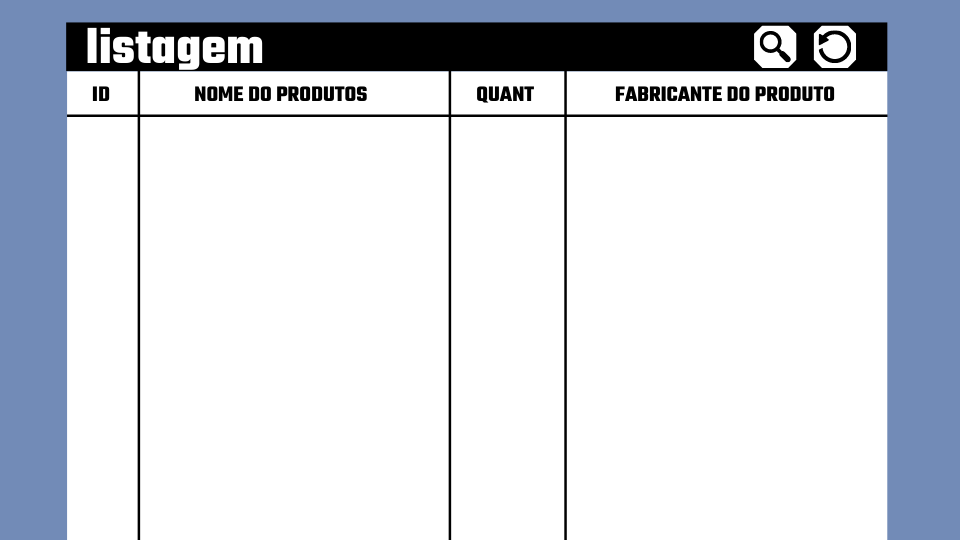
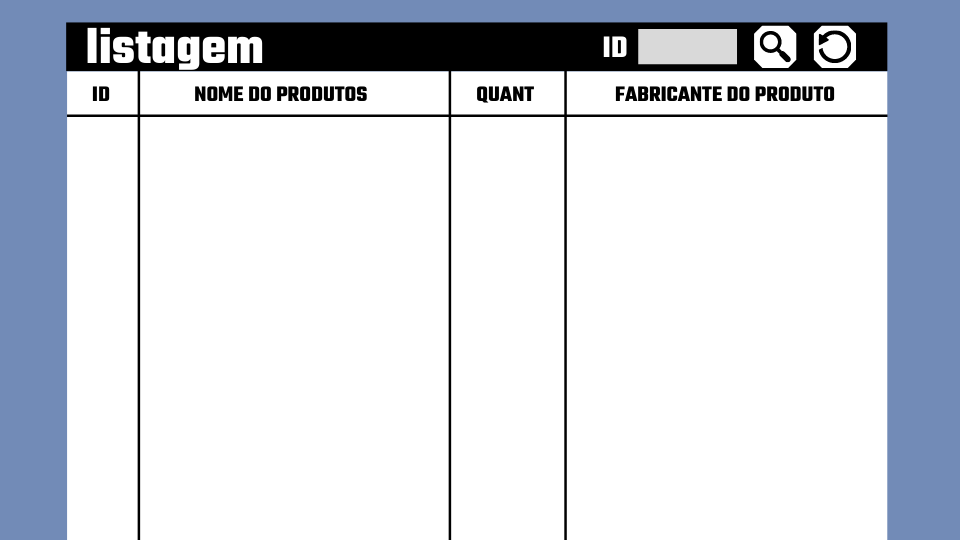
Atv's V1.16.7

Changed region(s): [[0.625, 0.0296, 0.7812, 0.1185]]

diff --git a/UC-05 - Desenvolver aplicações desktop/Gerenciador de Estoque - Full/Menu_CL.py b/UC-05 - Desenvolver aplicações desktop/Gerenciador de Estoque - Full/Menu_CL.py
@@ -24,6 +24,8 @@ class Menu:  # classe que cria todo o front end
         self.back = BackEnd()
         self.fundo = '#728BB7'
         self.branco = '#ffffff'
+        self.preto = '#000000'
+        self.cinza = '#d9d9d9'
         # ========================================================================================
         # frames
         self.frame_inicial = Frame(self.window)
@@ -34,6 +36,7 @@ class Menu:  # classe que cria todo o front end
         self.frame_cadas_prod = Frame(self.window)
         self.frame_cadas_fabri = Frame(self.window)
         self.frame_prod_listar = Frame(self.window)
+        self.frame_fabri_listar = Frame(self.window)
         self.frame_prod_alterar = Frame(self.window)
         self.frane_opt_alt = Frame(self.window)
         self.frame_dele_prod = Frame(self.window)
@@ -52,6 +55,7 @@ class Menu:  # classe que cria todo o front end
         img7 = PhotoImage(file='Imagens/Frames/Altr_Prod.png')
         img8 = PhotoImage(file='Imagens/Frames/Opt_Alterar.png')
         img9 = PhotoImage(file='Imagens/Frames/Deletar_Prod.png')
+        img10 = PhotoImage(file='Imagens/Frames/Listar_Fabri.png')
         img_menu_botao = PhotoImage(file='Imagens/botoes/menu.png')
         img_voltar_botao = PhotoImage(file='Imagens/botoes/voltar.png')
         img_botao_cadas = PhotoImage(file='Imagens/botoes/botao_cadas.PNG')
@@ -71,6 +75,7 @@ class Menu:  # classe que cria todo o front end
         img_bt_modi = PhotoImage(file='Imagens/botoes/botao_mod_prod.PNG')
         img_delete = PhotoImage(file='Imagens/botoes/botao_deletar.PNG')
         img_bt_dele = PhotoImage(file='Imagens/botoes/Deletar_bt.PNG')
+        img_bt_list_fabri = PhotoImage(file='Imagens/botoes/List_Fabri.PNG')
         # ==========================================================================================
         # INICIAL
         inicial = Label(self.frame_inicial, image=img0)
@@ -157,12 +162,16 @@ class Menu:  # classe que cria todo o front end
                                    bg=self.fundo, command=lambda: [self.frame_menu_prod.forget(),
                                                                    self.frame_prod_listar.pack(),
                                                                    self.back.listar(tabela)])
+        botao_fabri_listar = Button(self.frame_menu_prod, image=img_bt_list_fabri, bd=0, activebackground=self.fundo,
+                                    bg=self.fundo, command=lambda: [self.frame_fabri_listar.pack(),
+                                                                    self.frame_menu_prod.forget()])
         botao_prod_alterar = Button(self.frame_menu_prod, image=img_prod_alterar, bd=0, activebackground=self.fundo,
                                     bg=self.fundo, command=lambda: [self.frame_menu_prod.forget(),
                                                                     self.frane_opt_alt.pack()])
         # ----------------------------------------------------------------------------------------
         #  Posições
         botao_prod_listar.place(width=230, height=79, x=420, y=245)
+        botao_fabri_listar.place(x=711, y=248)
         botao_menu_cadas.place(width=32, height=31, x=9, y=11)
         botao_prod_alterar.place(width=196, height=70, x=767, y=410)
         menu_prod.pack()
@@ -237,6 +246,10 @@ class Menu:  # classe que cria todo o front end
         #  Label's
         prod_listar = Label(self.frame_prod_listar, image=img6)
         # ----------------------------------------------------------------------------------------
+        # Entry's
+        entry_busca_prod = Entry(self.frame_prod_listar, font='Arial 15 bold', bd=0, bg=self.cinza,
+                                 foreground=self.preto)
+        # ----------------------------------------------------------------------------------------
         #  Button's
         botao_menu_cadas = Button(self.frame_prod_listar, image=img_menu_botao, bd=0, activebackground=self.fundo,
                                   bg=self.fundo, command=lambda: [self.frame_menu_ini.pack(),
@@ -267,9 +280,38 @@ class Menu:  # classe que cria todo o front end
         #  Posições
         prod_listar.pack()
         tabela.place(width=823, height=475, x=65, y=69)
+        entry_busca_prod.place(width=100, height=37, x=638, y=28)
         botao_voltar.place(width=32, height=31, x=30, y=12)
         rolar.place(height=470, x=886, y=70)
         botao_recarregar.place(width=54, height=49, x=811, y=23)
+        # ----------------------------------------------------------------------------------------
+        # ==========================================================================================
+        # Listagem Fabricante
+        listagem_fabri = Label(self.frame_fabri_listar, image=img10)
+        listagem_fabri.pack()
+        # ----------------------------------------------------------------------------------------
+        botao_menu = Button(self.frame_fabri_listar, image=img_menu_botao, bd=0, activebackground=self.fundo, bg=self.fundo
+                            , command=lambda: [self.frame_menu_ini.pack(), self.frame_fabri_listar.forget()])
+        botao_voltar = Button(self.frame_fabri_listar, image=img_voltar_botao, bd=0, activebackground=self.fundo,
+                              bg=self.fundo, command=lambda: [self.frame_fabri_listar.forget(),
+                                                              self.frame_menu_prod.pack()])
+        # ----------------------------------------------------------------------------------------
+        #  Treeview
+        tabela_fabri = ttk.Treeview(self.frame_fabri_listar, columns=["id", "nome", "cnpj"],
+                                    selectmode='browse', show='headings')
+        rolar_fabri = ttk.Scrollbar(self.frame_fabri_listar, orient='vertical', command=tabela_fabri.yview())
+        tabela_fabri.config(xscrollcommand=rolar.set)
+        tabela_fabri.column("id", width=2)
+        tabela_fabri.column("nome", width=70)
+        tabela_fabri.column("cnpj", width=30)
+        tabela_fabri.heading("id", text='Id')
+        tabela_fabri. heading("nome", text='Nome da fabricante')
+        tabela_fabri.heading("cnpj", text='CNPJ da empresa')
+        # ----------------------------------------------------------------------------------------
+        botao_menu.place(width=32, height=31, x=9, y=11)
+        botao_voltar.place(width=32, height=31, x=40, y=12)
+        tabela_fabri.place(width=670, height=480, x=148, y=62)
+        rolar_fabri.place(width=18, height=480, x=816, y=63)
         # ----------------------------------------------------------------------------------------
         # ==========================================================================================
         # MENU ALTERAR
